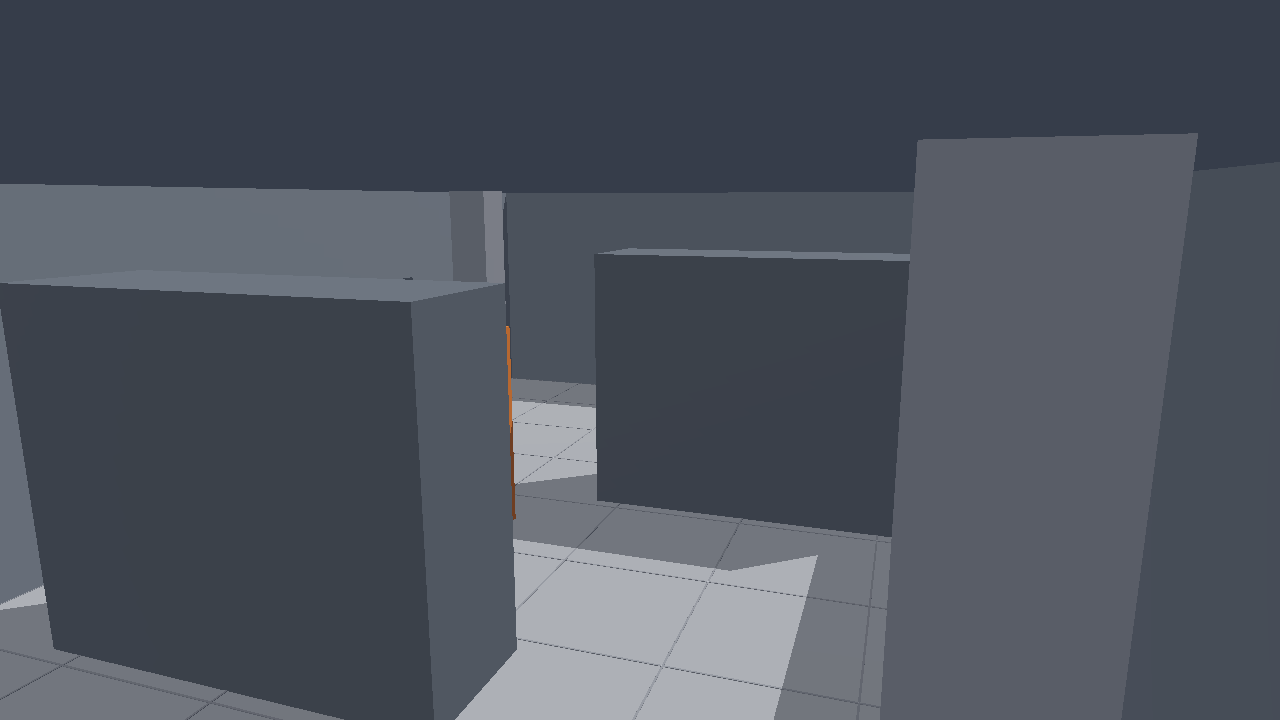
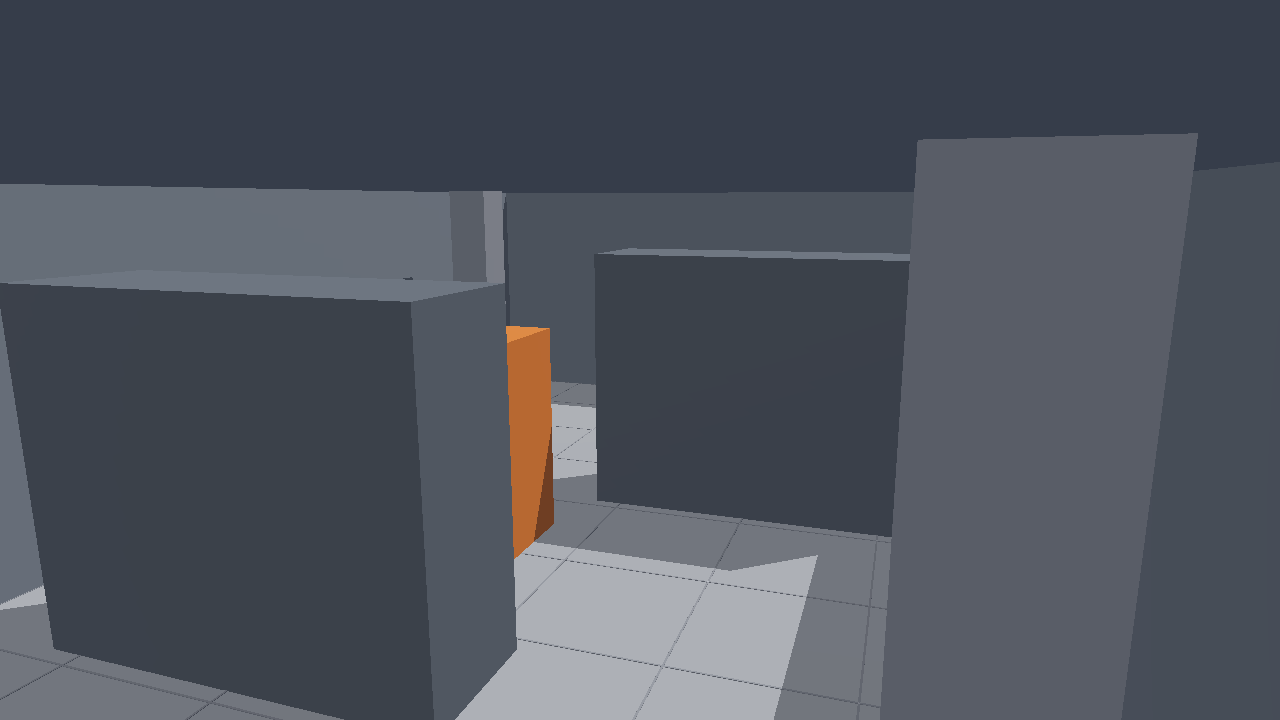
Add a "hero" capture viewpoint and recapture the scene
The existing views could not show the whole task at once: overview_3d has the
start pad in the foreground but rack_b occludes the goal, and corner clips the
goal pad at the frame edge. "hero" mirrors overview_3d about the mid-span
x = 5 m, which puts the goal pad in view while keeping both racks, both
columns, the crate stack, the cart and the drone in frame.

Captured through the drone's offscreen Camera node, as the GUI viewport renders
nothing when Webots is launched non-interactively here. All five views
recaptured: 66-150 unique colours each, so every frame carries real scene
content rather than the uniform fill the GUI path produces.

Changed region(s): [[0.375, 0.4583, 0.4375, 0.7639]]

diff --git a/tests/client_screenshot.py b/tests/client_screenshot.py
@@ -68,8 +68,13 @@ def main() -> int:
     # inside the room. A camera pulled far back at a shallow angle is hidden
     # behind the 2.5 m wall: from (5, -11.5, 8.5) the wall occludes
     # 2.5 / tan(33 deg) = 3.9 m of the 6 m depth, which swallows the start pad.
+    # "hero" mirrors "overview_3d" about the mid-span x = 5 m, which puts the
+    # goal pad in the foreground instead of the start pad. overview_3d shows the
+    # start pad clearly but rack_b occludes the goal, so the two views together
+    # cover both pads; hero is the one used as the README figure.
     views = {
         "overview_3d": (np.array([-2.2, -4.6, 9.2]), np.array([6.3, 0.1, 0.7])),
+        "hero": (np.array([12.2, -4.6, 9.2]), np.array([3.7, 0.1, 0.7])),
         "topdown": (np.array([5.0, 0.0, 11.0]), np.array([5.0, 0.0, 0.0])),
         "aisle_low": (np.array([0.35, -2.1, 2.4]), np.array([7.5, 0.3, 0.9])),
         "corner": (np.array([11.5, -4.0, 6.0]), np.array([3.5, 0.3, 0.7])),
